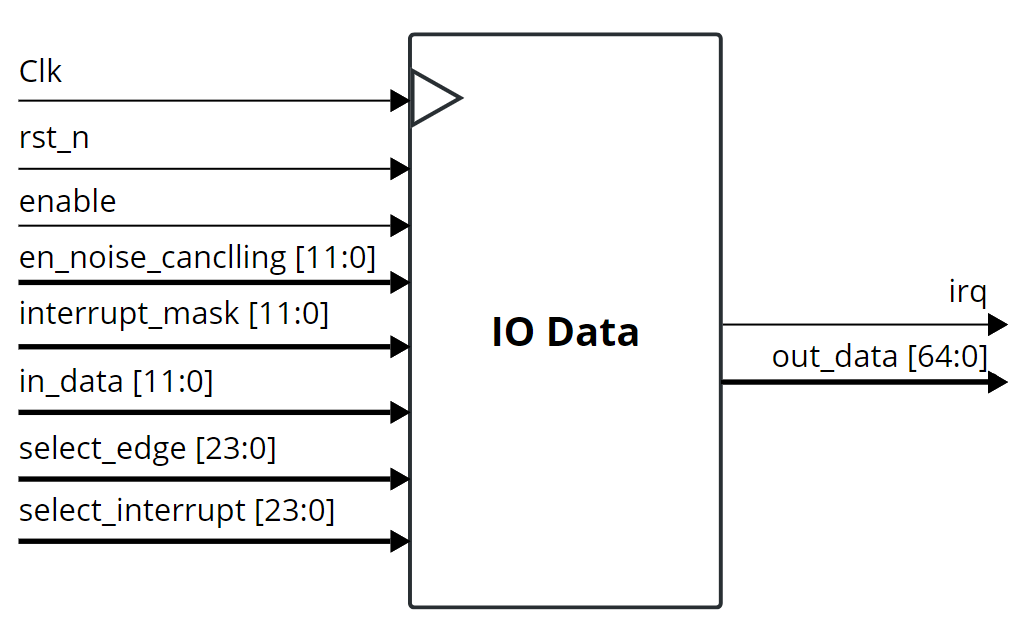
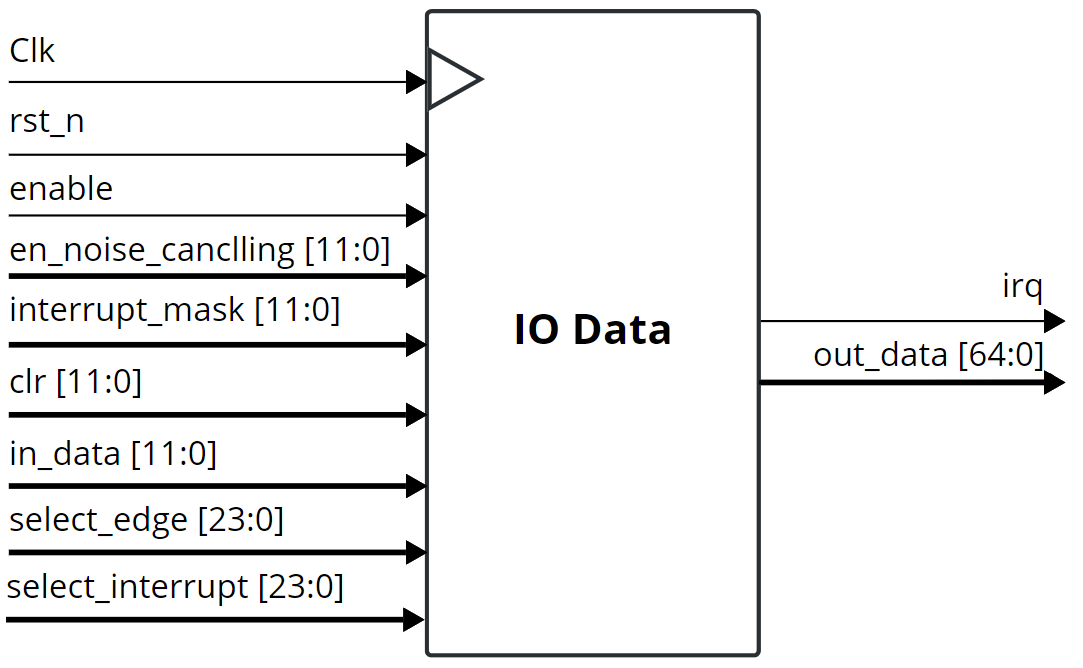
:books: doc: Adição das imagens e mudanças na escrita do texto

Changed region(s): [[0.0, 0.0, 1.0, 1.0], [0.4577, 0.4589, 0.6407, 0.5813]]

diff --git a/doc/Modulo de IO/README.md b/doc/Modulo de IO/README.md
@@ -368,6 +368,7 @@ O módulo conta com as seguintes entradas e saídas:
 |in_data | Entrada    | 12       | Barramento para leitura dos periféricos |
 |select_edge | Entrada    | 24       | Barramento para seleção de borda |
 |select_interrupt | Entrada    | 24       | Barramento para seleção de tipo de interrupção|
+|clr | Entrada    | 12       | Sinal de limpeza de registrador de captura |
 |out_data | Saída   | 64      | Barramento para leitura de dados |
 |irq | Saída   | 1      | Sinal de interrupção|
 
@@ -378,8 +379,11 @@ O módulo conta com as seguintes entradas e saídas:
 Para garantir a visualização do módulo, segue a imagem do diagrama de blocos do módulo.
 
 <div align="center">
-  <img src="img/IOData.png" width = "800" />
+
+  <img src="img/ioData.png" width = "800" />
+
 </div>
+
 <p align="center"><strong>Figura 10: Diagrama de blocos do módulo IO Data</strong></p>
 
 <h4>Select Data Read</h4>
